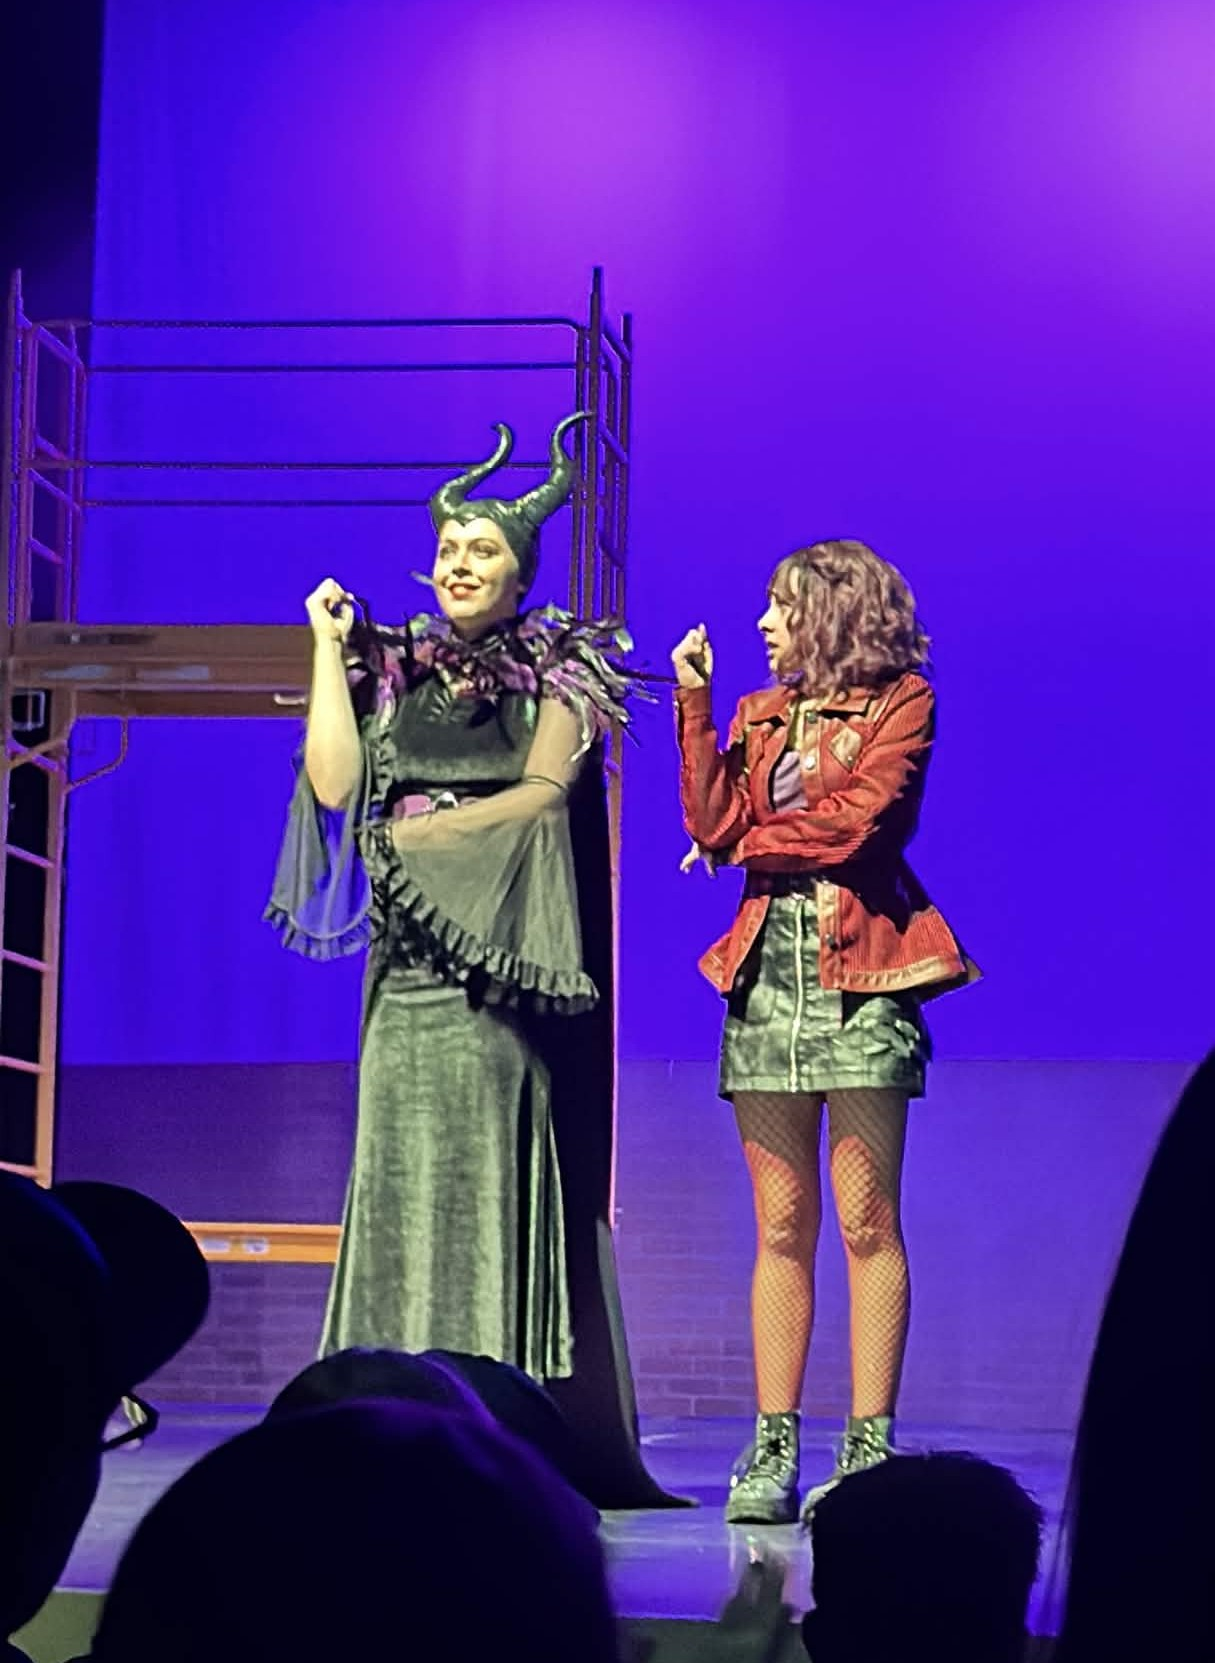
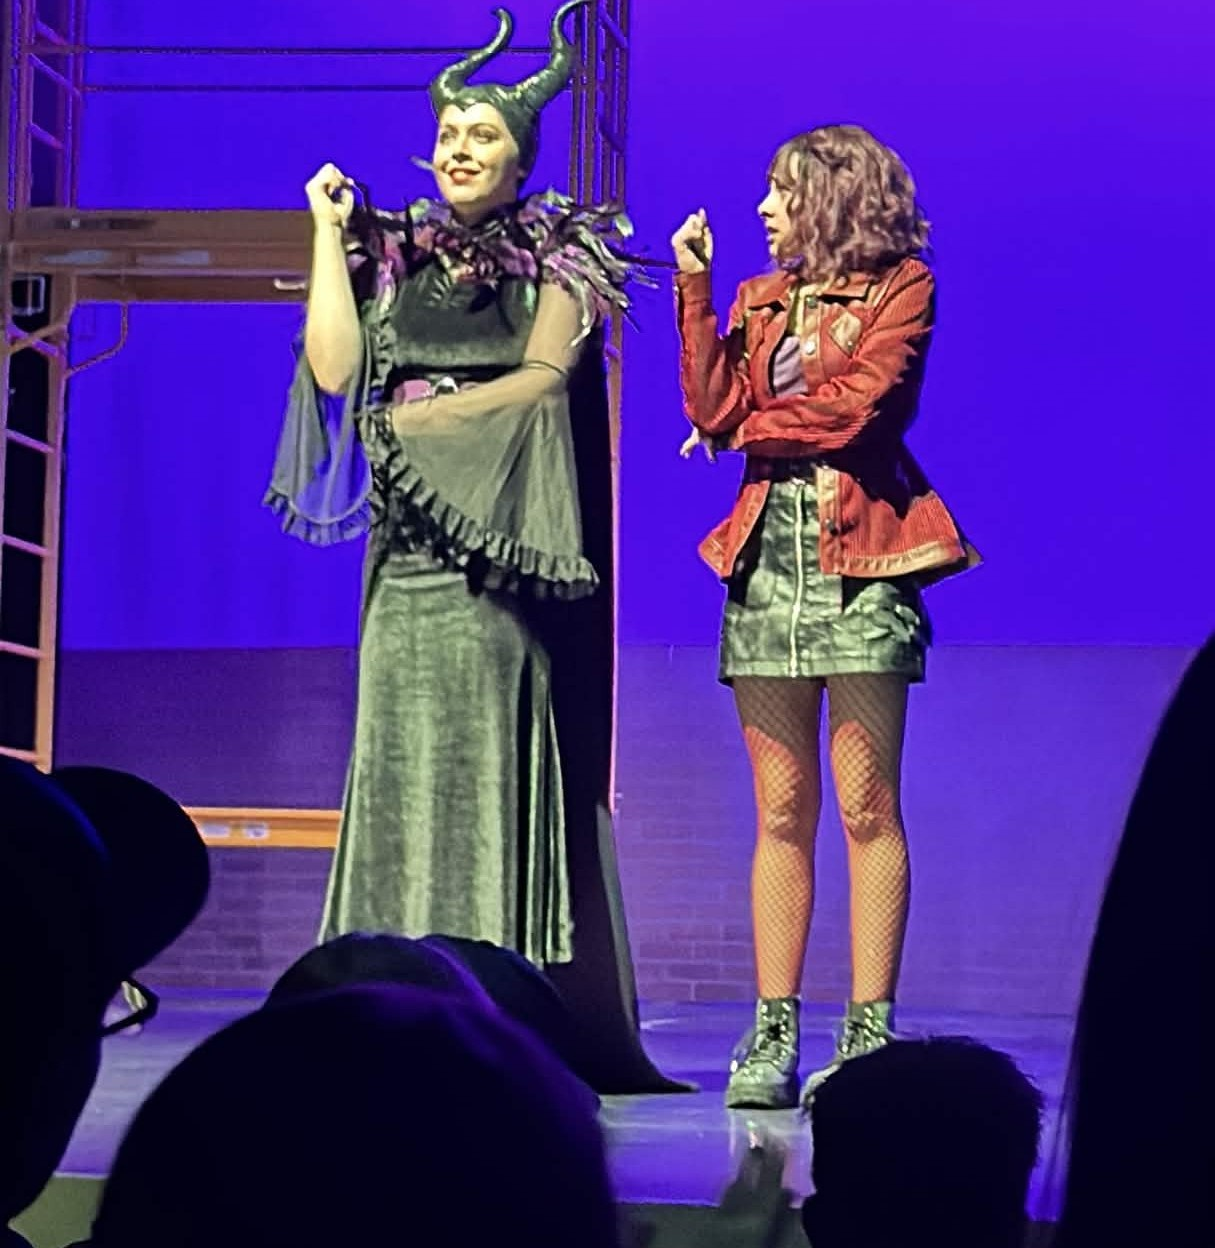
Crop hero tighter, remove top purple space

diff --git a/styles.css b/styles.css
@@ -137,7 +137,7 @@
   .hero-bg {
     position: absolute;
     inset: 0;
-    background: url('hero-lights.jpg') center/cover no-repeat;
+    background: url('hero-lights.jpg') center top/cover no-repeat;
   }
 
   .hero-bg::after {
